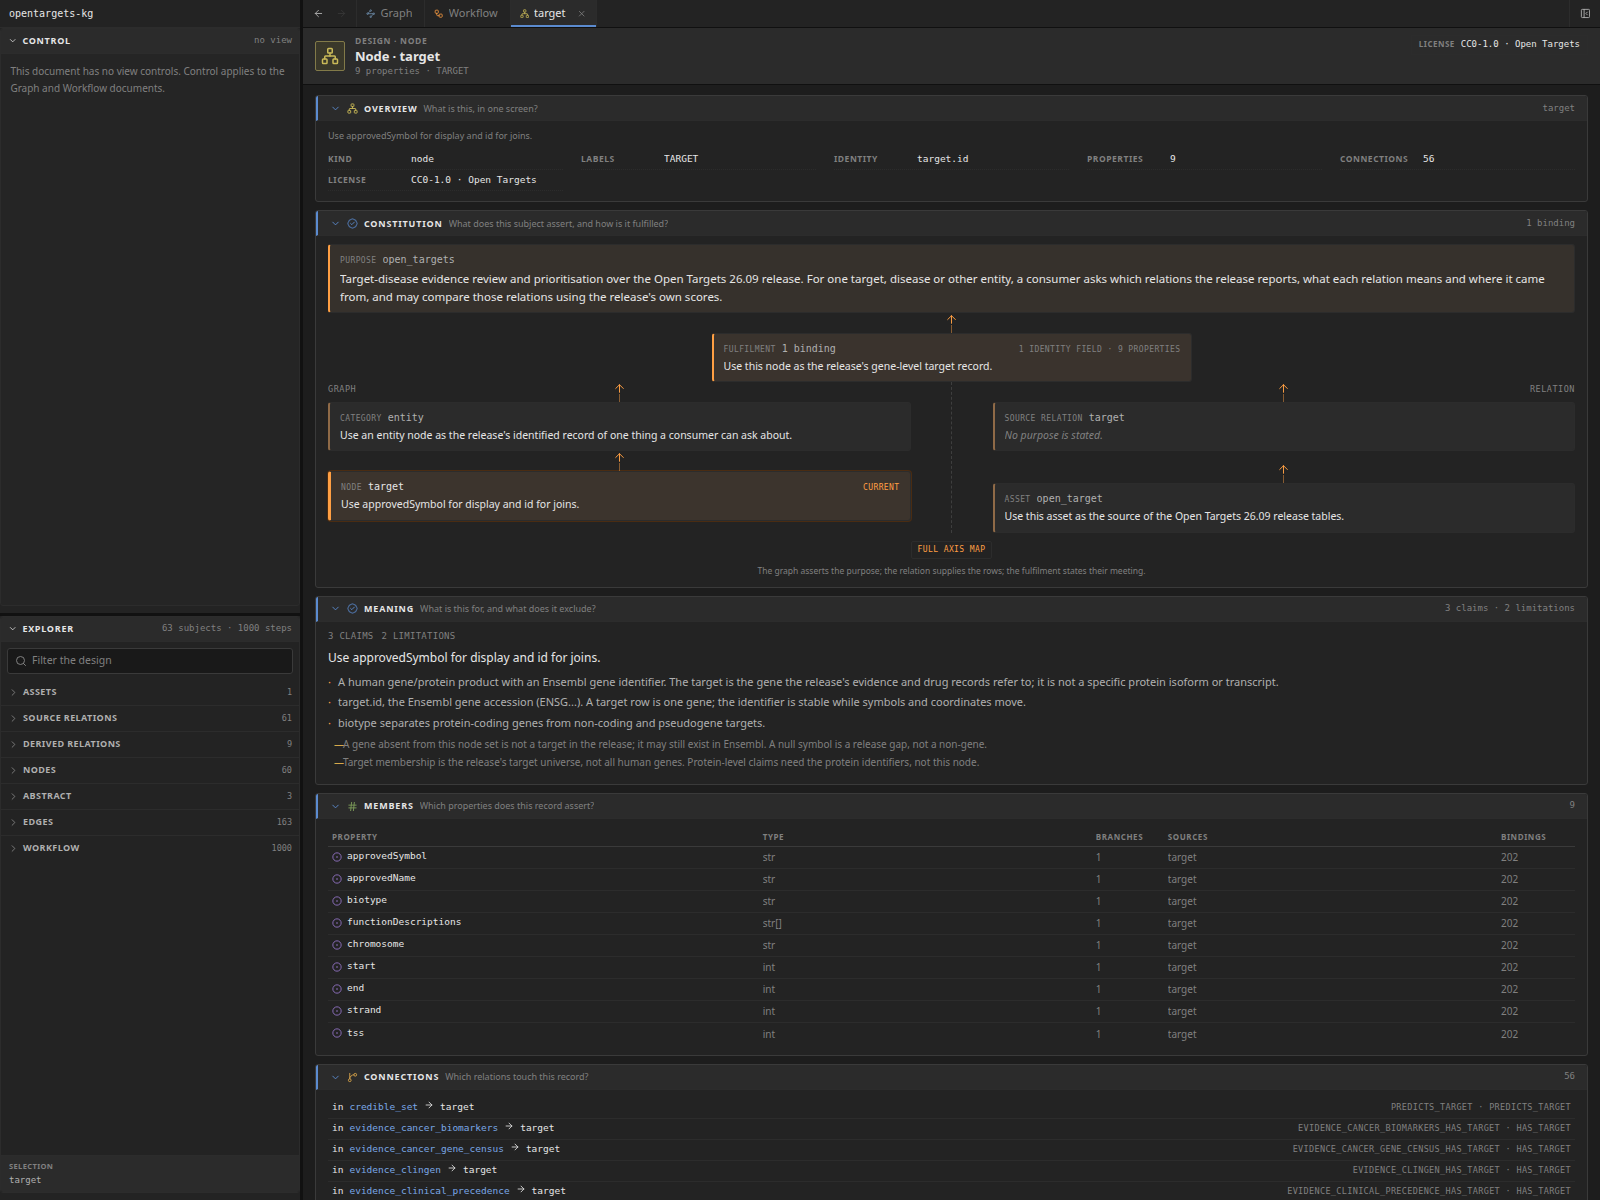
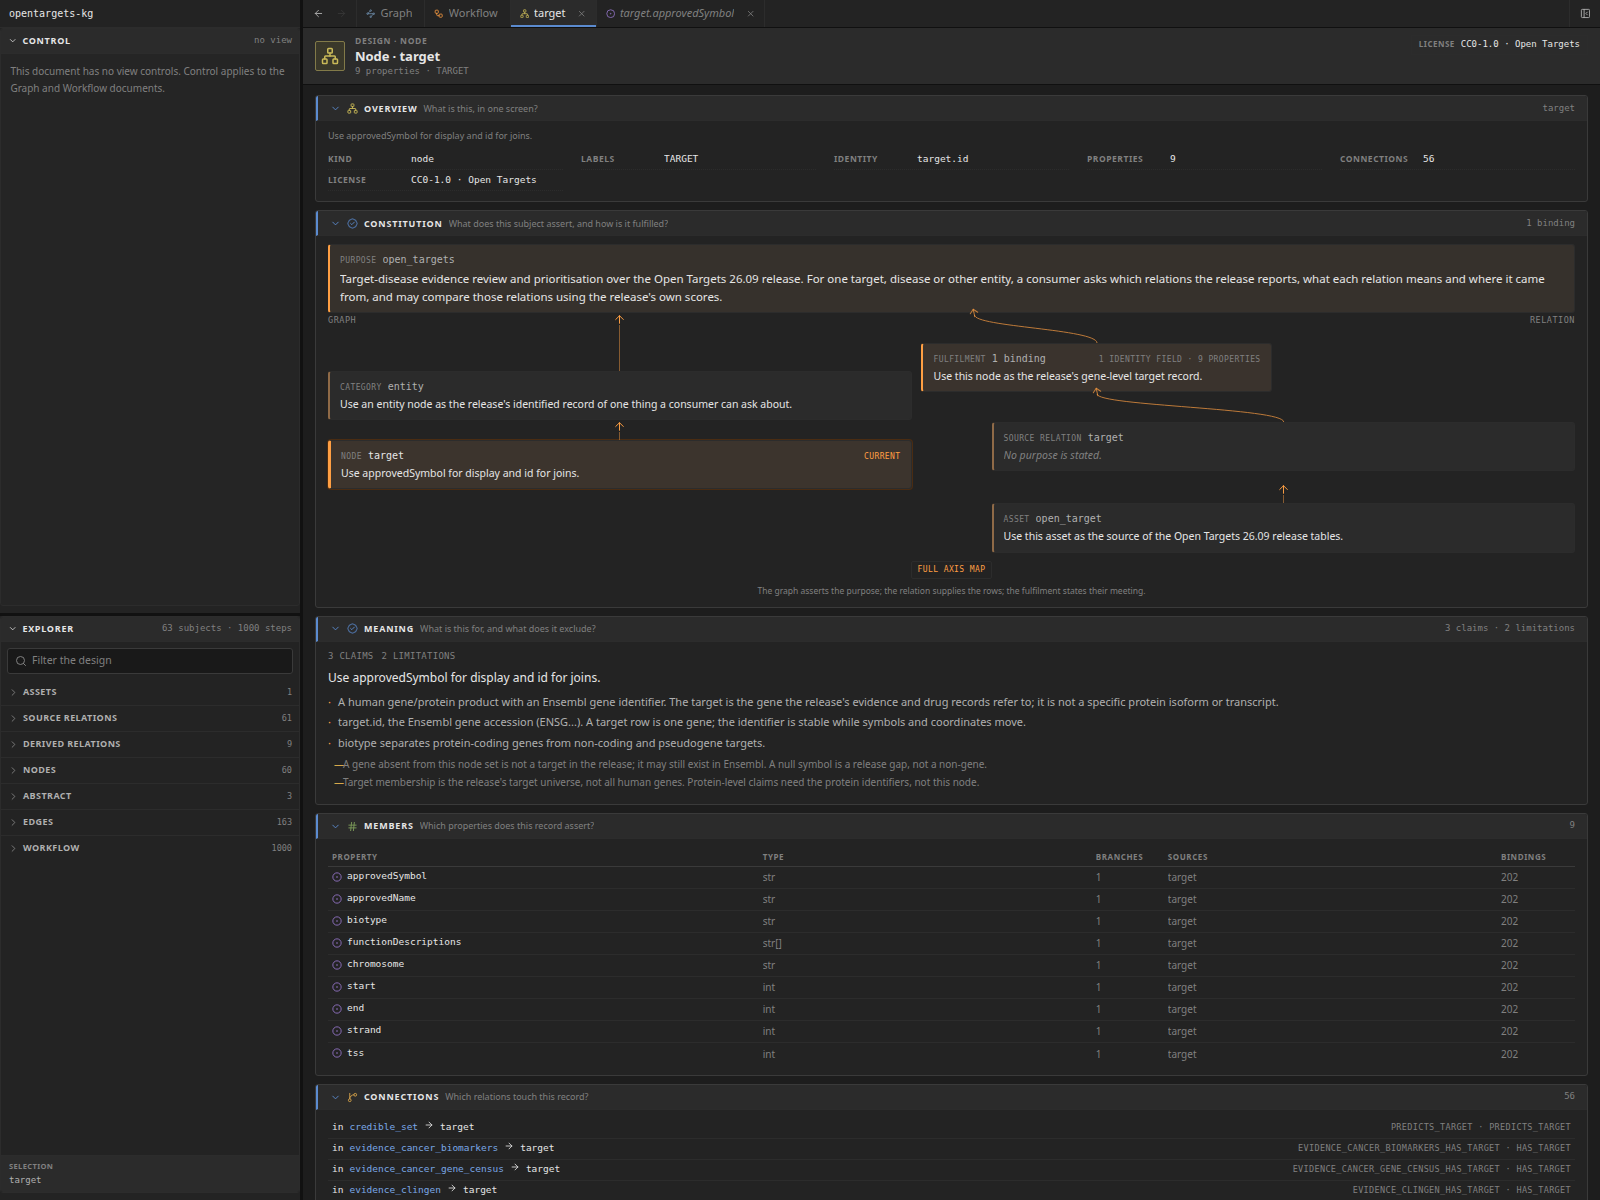
Set fulfilment above the relation axis with curved arrows

diff --git a/viewer/shared/design/Constitution.tsx b/viewer/shared/design/Constitution.tsx
@@ -128,11 +128,30 @@ function Box({
   );
 }
 
-function Arrow() {
+function Arrow({ tall = false }: { tall?: boolean }) {
   return (
-    <span className={styles.constitutionArrow} aria-hidden>
+    <span
+      className={cx(styles.constitutionArrow, tall && styles.constitutionArrowTall)}
+      aria-hidden
+    >
       <ArrowUp size={13} strokeWidth={1.8} />
     </span>
+  );
+}
+
+function CurvedArrow({ from, to }: { from: number; to: number }) {
+  return (
+    <div className={styles.constitutionCurve} aria-hidden>
+      <svg viewBox="0 0 100 30" preserveAspectRatio="none">
+        <path d={`M ${from} 30 C ${from} 16, ${to} 14, ${to} 2`} />
+      </svg>
+      <span
+        className={styles.constitutionCurveHead}
+        style={{ left: `${to}%` }}
+      >
+        <ArrowUp size={13} strokeWidth={1.8} />
+      </span>
+    </div>
   );
 }
 
@@ -146,6 +165,7 @@ function Branch({
   onHover,
   onLeave,
   onOpen,
+  tallFirst = false,
 }: {
   side: "graph" | "relation";
   label: string;
@@ -156,15 +176,16 @@ function Branch({
   onHover(node: ConstitutionNode, element: HTMLElement): void;
   onLeave(): void;
   onOpen?(target: ConstitutionTarget): void;
+  tallFirst?: boolean;
 }) {
   return (
     <div className={styles.constitutionBranch} data-side={side}>
       <span className={styles.constitutionBranchLabel}>{label}</span>
       <div className={styles.constitutionStack}>
         {nodes.length ? (
-          nodes.map((node) => (
+          nodes.map((node, index) => (
             <Fragment key={boxKey(node)}>
-              <Arrow />
+              <Arrow tall={tallFirst && index === 0} />
               <Box
                 node={node}
                 hovered={hoveredKey === boxKey(node)}
@@ -188,9 +209,10 @@ function Branch({
  * relation axes below it, and the binding as the relation side's fulfilment.
  *
  * The graph and relation chains read upward toward the purpose. The fulfilment
- * box is centred in the gap above both axes; the dashed centre starts below it
- * and separates the axes without reaching the purpose. Hovering or focusing a
- * box reveals its full meaning in a portal, because the band clips overflow.
+ * box sits on the right side above the relation axis, inset from it; the arrow
+ * from fulfilment to purpose and the arrow from the relation to fulfilment
+ * both bend left. Hovering or focusing a box reveals its full meaning in a
+ * portal, because the band clips overflow.
  */
 export function Constitution({
   model,
@@ -315,29 +337,10 @@ export function Constitution({
         />
       </div>
 
-      <div className={styles.constitutionFulfilment}>
-        <Arrow />
-        <Box
-          node={
-            bindingNode ?? {
-              kind: "binding",
-              name: "no binding",
-              label: "Fulfilment",
-              meaning: { claims: [], limitations: [], frames: [] },
-            }
-          }
-          fulfilment
-          hoverable={bindingHoverable}
-          text={bindingText}
-          hovered={hoveredKey === bindingKey}
-          hoverCardId={hoverCardId}
-          onHover={openHover}
-          onLeave={scheduleClose}
-          onOpen={onOpen}
-        />
-      </div>
-
-      <div className={styles.constitutionBranches}>
+      <div
+        className={styles.constitutionBranches}
+        data-count="2"
+      >
         <Branch
           side="graph"
           label="Graph"
@@ -348,27 +351,51 @@ export function Constitution({
           onHover={openHover}
           onLeave={scheduleClose}
           onOpen={onOpen}
+          tallFirst
         />
-
-        <div className={styles.constitutionSeam} aria-hidden>
-          <span className={styles.constitutionSeamLine} />
-        </div>
 
         <div className={styles.constitutionBranch} data-side="relation">
           <span className={styles.constitutionBranchLabel}>Relation</span>
+          <CurvedArrow from={18} to={-3} />
+          <div className={styles.constitutionFulfilmentBox}>
+            <Box
+              node={
+                bindingNode ?? {
+                  kind: "binding",
+                  name: "no binding",
+                  label: "Fulfilment",
+                  meaning: { claims: [], limitations: [], frames: [] },
+                }
+              }
+              fulfilment
+              hoverable={bindingHoverable}
+              text={bindingText}
+              hovered={hoveredKey === bindingKey}
+              hoverCardId={hoverCardId}
+              onHover={openHover}
+              onLeave={scheduleClose}
+              onOpen={onOpen}
+            />
+          </div>
+          <CurvedArrow from={50} to={18} />
+          <span
+            className={cx(
+              styles.constitutionBranchLabel,
+              styles.constitutionMobileBranchLabel,
+            )}
+          >
+            Relation
+          </span>
           <div className={styles.constitutionStack}>
             {primaryRelation ? (
-              <>
-                <Arrow />
-                <Box
-                  node={primaryRelation}
-                  hovered={hoveredKey === boxKey(primaryRelation)}
-                  hoverCardId={hoverCardId}
-                  onHover={openHover}
-                  onLeave={scheduleClose}
-                  onOpen={onOpen}
-                />
-              </>
+              <Box
+                node={primaryRelation}
+                hovered={hoveredKey === boxKey(primaryRelation)}
+                hoverCardId={hoverCardId}
+                onHover={openHover}
+                onLeave={scheduleClose}
+                onOpen={onOpen}
+              />
             ) : (
               <p className={styles.constitutionEmpty}>No relation is shown.</p>
             )}

diff --git a/viewer/shared/design/design.module.css b/viewer/shared/design/design.module.css
@@ -400,22 +400,50 @@ button.constitutionName:focus-visible {
   font-style: italic;
 }
 
-.constitutionFulfilment {
-  display: flex;
-  align-items: center;
-  flex-direction: column;
-  justify-content: center;
-}
-
-.constitutionFulfilment .constitutionBox {
-  width: min(480px, 44%);
-}
-
 .constitutionBranches {
   position: relative;
   display: grid;
-  grid-template-columns: minmax(0, 1fr) 46px minmax(0, 1fr);
-  column-gap: 18px;
+  grid-template-columns: minmax(0, 1fr) minmax(0, 1fr);
+  column-gap: 80px;
+}
+
+.constitutionFulfilmentBox {
+  width: 60%;
+  margin-left: -12%;
+}
+
+.constitutionCurve {
+  position: relative;
+  width: 100%;
+  height: 30px;
+  color: var(--color-selection);
+}
+
+.constitutionCurve svg {
+  display: block;
+  overflow: visible;
+  width: 100%;
+  height: 100%;
+}
+
+.constitutionCurve path {
+  fill: none;
+  stroke: currentColor;
+  stroke-width: 1;
+  opacity: 0.7;
+  vector-effect: non-scaling-stroke;
+}
+
+.constitutionCurveHead {
+  position: absolute;
+  top: 0;
+  display: flex;
+  color: var(--color-selection);
+  transform: translate(-50%, -50%) rotate(-12deg);
+}
+
+.constitutionMobileBranchLabel {
+  display: none;
 }
 
 .constitutionBranch {
@@ -472,22 +500,15 @@ button.constitutionName:focus-visible {
   margin-bottom: -1px;
 }
 
+.constitutionArrowTall {
+  height: 58px;
+}
+
 .constitutionEmpty {
   margin: 0;
   color: var(--color-faint);
   font-size: 9.5px;
   line-height: 1.4;
-}
-
-.constitutionSeam {
-  display: flex;
-  justify-content: center;
-}
-
-.constitutionSeamLine {
-  width: 0;
-  border-left: 1px dashed var(--color-line-strong);
-  opacity: 0.7;
 }
 
 .constitutionTools {
@@ -526,7 +547,7 @@ button.constitutionName:focus-visible {
   text-align: center;
 }
 
-@media (max-width: 1100px) {
+@media (max-width: 1400px) {
   .constitutionBoxFulfilment .constitutionTag {
     display: none;
   }
@@ -536,19 +557,30 @@ button.constitutionName:focus-visible {
   .constitutionBranches {
     grid-template-columns: minmax(0, 1fr);
     row-gap: 12px;
-    padding-top: 10px;
   }
 
-  .constitutionSeam {
+  .constitutionCurve {
     display: none;
   }
 
-  .constitutionFulfilment .constitutionBox {
+  .constitutionBranch[data-side="relation"] > .constitutionBranchLabel:first-child {
+    display: none;
+  }
+
+  .constitutionMobileBranchLabel {
+    display: block;
+    position: static;
+    align-self: flex-start;
+    margin: 2px 0;
+  }
+
+  .constitutionFulfilmentBox {
     width: 100%;
+    margin-left: 0;
   }
 
-  .constitutionStack > .constitutionArrow:first-child {
-    display: none;
+  .constitutionArrowTall {
+    height: 20px;
   }
 
   .constitutionChildren {

diff --git a/viewer/shared/design/constitution.ts b/viewer/shared/design/constitution.ts
@@ -4,9 +4,9 @@
  *
  * The purpose is the root. The graph branch holds the record-axis purposes
  * that narrow it; the relation branch holds the provenance that supplies it,
- * from the relation down to the asset. The fulfilment box is centred in the
- * gap above both axes. A level keeps its own meaning, so the two branches show
- * derivation and supply, never inherited text.
+ * from the relation down to the asset. The fulfilment box sits on the right,
+ * above the relation axis and inset from it. A level keeps its own meaning, so
+ * the two branches show derivation and supply, never inherited text.
  */
 
 import {

diff --git a/viewer/HIERARCHY.md b/viewer/HIERARCHY.md
@@ -55,9 +55,9 @@ position.
 | **Graph** (pinned) | shared visualisation frame with a header (view name, visible node/link counts, **Inspect** toggle) above a D3 force canvas; bottom-left zoom/Fit navigation; floating Inspector shows graph purpose/overview when nothing is selected, or the selected entity's identity, properties and meaning; clicking empty space deselects |
 | **Workflow** (pinned) | compositor-style component graph in the same visualisation frame; the header names the workflow or focused component, states component or step counts and carries step-group actions; selecting a component and using **Open step group** drills into its step-level flow graph with one block per dependency layer, a large layer wrapping into aligned sub-columns, and boundary components aligned to the steps they feed; selecting a component, step or boundary node highlights its incident links and dims the other nodes in the same graph view, and entering another step group requires **Open step group**; drag to pan, wheel to zoom, Fit in the navigation cluster resets; Back returns to components; filters from Control narrow the step graph |
 | **Step** | one workflow step's instruction, payload, openings, connections and blueprint bindings on the same detail surface as node and subject documents; opened from the workflow section of Explorer |
-| **Source relation** | a source relation's identity, contract, owning asset, columns, indented expression outline from the relation back through its fields to the asset, its Constitution (purpose root, bound records, fulfilment box above the axes, relation and asset branches) and its full meaning in the Meaning band; the effective licence is in the banner |
-| **Derived relation** | a derived relation's identity, contract, columns, row source, indented expression outline from each column back through its operators and row source to the asset, its Constitution (purpose root, bound records, fulfilment box above the axes, relation and asset branches) and its full meaning in the Meaning band; the effective licence is in the banner |
-| **Subject** (node, edge, property, asset, abstract) | provenance assets, source relations and derived relations first for node, edge and property; asset and relation references are navigable to their own documents; the effective licence is in the banner; a pannable, zoomable narrowed workflow graph and an indented expression outline of the actual field and operator chain from the current item back to its provenance assets follows, then the Constitution tree (wide purpose root, graph branch from category to component to property, fulfilment box centred in the gap above the two axes, relation branch with its provenance branches below, dashed axis divide starting under fulfilment and optional full axis map; hovering a box shows its full meaning, and a label opens that level), the current subject's full Meaning, properties and, for a property, provenance lanes and type/presence |
+| **Source relation** | a source relation's identity, contract, owning asset, columns, indented expression outline from the relation back through its fields to the asset, its Constitution (purpose root, bound records, fulfilment box above the relation axis and inset from it, relation and asset branches) and its full meaning in the Meaning band; the effective licence is in the banner |
+| **Derived relation** | a derived relation's identity, contract, columns, row source, indented expression outline from each column back through its operators and row source to the asset, its Constitution (purpose root, bound records, fulfilment box above the relation axis and inset from it, relation and asset branches) and its full meaning in the Meaning band; the effective licence is in the banner |
+| **Subject** (node, edge, property, asset, abstract) | provenance assets, source relations and derived relations first for node, edge and property; asset and relation references are navigable to their own documents; the effective licence is in the banner; a pannable, zoomable narrowed workflow graph and an indented expression outline of the actual field and operator chain from the current item back to its provenance assets follows, then the Constitution tree (wide purpose root, graph branch from category to component to property, fulfilment box above the relation axis and inset from it, relation branch with its provenance branches below, curved arrows into fulfilment and optional full axis map; hovering a box shows its full meaning, and a label opens that level), the current subject's full Meaning, properties and, for a property, provenance lanes and type/presence |
 
 A node or property click in the canvas only changes transient inspection.
 Single-clicking an Explorer row opens or reuses one preview tab; double-clicking

diff --git a/viewer/DETAIL_CONTENT.md b/viewer/DETAIL_CONTENT.md
@@ -16,7 +16,7 @@ includes by their immediate importance to a reader; it never renames one. A
 | Order | Section | Question it answers | Content |
 | --- | --- | --- | --- |
 | 1 | **Overview** | What is this, in one screen? | One fact grid: kind, labels, identity, owner or endpoints, counts and licence. |
-| 2 | **Constitution** | What does this subject assert, and how is it fulfilled? | One wide purpose at the top; the Fulfilment box centred in the gap above the two axes; the Graph chain on the left and the Relation chain on the right. The dashed centre starts below Fulfilment and does not reach the purpose. Arrows point up to the level each box is accountable to; the relation's provenance branches sit below it. Each box clamps its purpose to two lines; hovering or focusing it reveals the full meaning, and a box label opens its document. The Fulfilment box states the binding count; identity fields and coverage appear when the box has room and always in the full axis map. A grouped branch shows the first item and `+N`; one control expands the full axis map. |
+| 2 | **Constitution** | What does this subject assert, and how is it fulfilled? | One wide purpose at the top; the Fulfilment box on the right side, slightly inset above the relation axis; the Graph chain on the left and the Relation chain on the right. The arrow from Fulfilment to the purpose and the arrow from the relation to Fulfilment both curve left. Arrows point up to the level each box is accountable to; the relation's provenance branches sit below it. Each box clamps its purpose to two lines; hovering or focusing it reveals the full meaning, and a box label opens its document. The Fulfilment box states the binding count; identity fields and coverage appear when the box has room and always in the full axis map. A grouped branch shows the first item and `+N`; one control expands the full axis map. |
 | 3 | **Meaning** | What is this for, and what does it exclude? | The full meaning of the current subject: purpose, the limitations it owns, then contextless claims; compact counts in the header. |
 | 4 | **Sources** | Where does this value come from? | Assets, source relations and derived relations, as navigable references with counts. |
 | 5 | **Build steps** | How is this built? | The narrowed workflow graph of the steps that produce the subject. |
@@ -85,11 +85,11 @@ to.
   splits into its scanned source relation and its asset; a source relation
   shows its asset. The current declaration is marked when the subject is a
   relation or asset.
-- **Fulfilment** is the centred box in the gap above the two axes. It is not
-  part of either axis: the dashed centre starts below it, so it separates the
-  axes without reaching the purpose. It states the binding count; identity
-  fields and coverage appear when the box has room and always in the full axis
-  map. The graph asserts, the relation supplies, and the
+- **Fulfilment** is the box on the right side, above the relation axis and
+  slightly inset from it. It is not part of either axis. Its arrow to the
+  purpose and the relation's arrow to it both bend left. It states the binding
+  count; identity fields and coverage appear when the box has room and always
+  in the full axis map. The graph asserts, the relation supplies, and the
   Fulfilment box states their meeting.
 - A branch with many records, relations or assets shows the first item and
   `+N`, so the card stays compact. **Full axis map** expands the same data into

diff --git a/viewer/DESIGN_LANGUAGE.md b/viewer/DESIGN_LANGUAGE.md
@@ -82,11 +82,12 @@ A kind includes or omits a section; it never renames one for itself.
   counts and licence.
 - **Constitution** is the two-axis tree. The wide purpose is the root; the
   Graph branch is the record axis, ordered from category to component to
-  property; the Relation branch is the relation axis. The Fulfilment box is
-  centred in the gap above both axes; the dashed centre starts below it and
-  never reaches the purpose. The relation axis carries its provenance branches
-  below its relation. Each box states only its own purpose and clamps; arrows
-  point up to the level it is accountable to. Hovering or focusing a box reveals its full meaning in a
+  property; the Relation branch is the relation axis. The Fulfilment box sits
+  on the right side above the relation axis, slightly inset from it; its arrow
+  to the purpose and the relation's arrow to it both bend left. The relation
+  axis carries its provenance branches below its relation. Each box states only
+  its own purpose and clamps; arrows point up to the level it is accountable
+  to. Hovering or focusing a box reveals its full meaning in a
   portal card; a box label opens that level's document. A grouped branch shows
   the first item and `+N`; **Full axis map** expands the same data into the
   three-column records, fulfilment and relations view.

diff --git a/AGENTS.md b/AGENTS.md
@@ -155,9 +155,9 @@ missing, not the code.
   question; every further layer is revealed by a named control, and raw JSON is
   not a default surface.
 - A subject that carries purpose, fulfilment and provenance is one constitution:
-  purpose at the root, fulfilment centred in the gap above the axes, and the
-  graph and relation axes below with the divider starting under fulfilment. The
-  axes are parallel lanes, not a Cartesian plot; fulfilment is neither axis.
+  purpose at the root, fulfilment above the relation axis and inset from it,
+  and the graph and relation axes below. The axes are parallel lanes, not a
+  Cartesian plot; fulfilment is neither axis.
 - A repeated item renders its units compactly. A heading is structural, not per
   unit: a table cell or list row does not repeat the section chrome.
 - Present the design before an author workflow: a canonical view carries the
